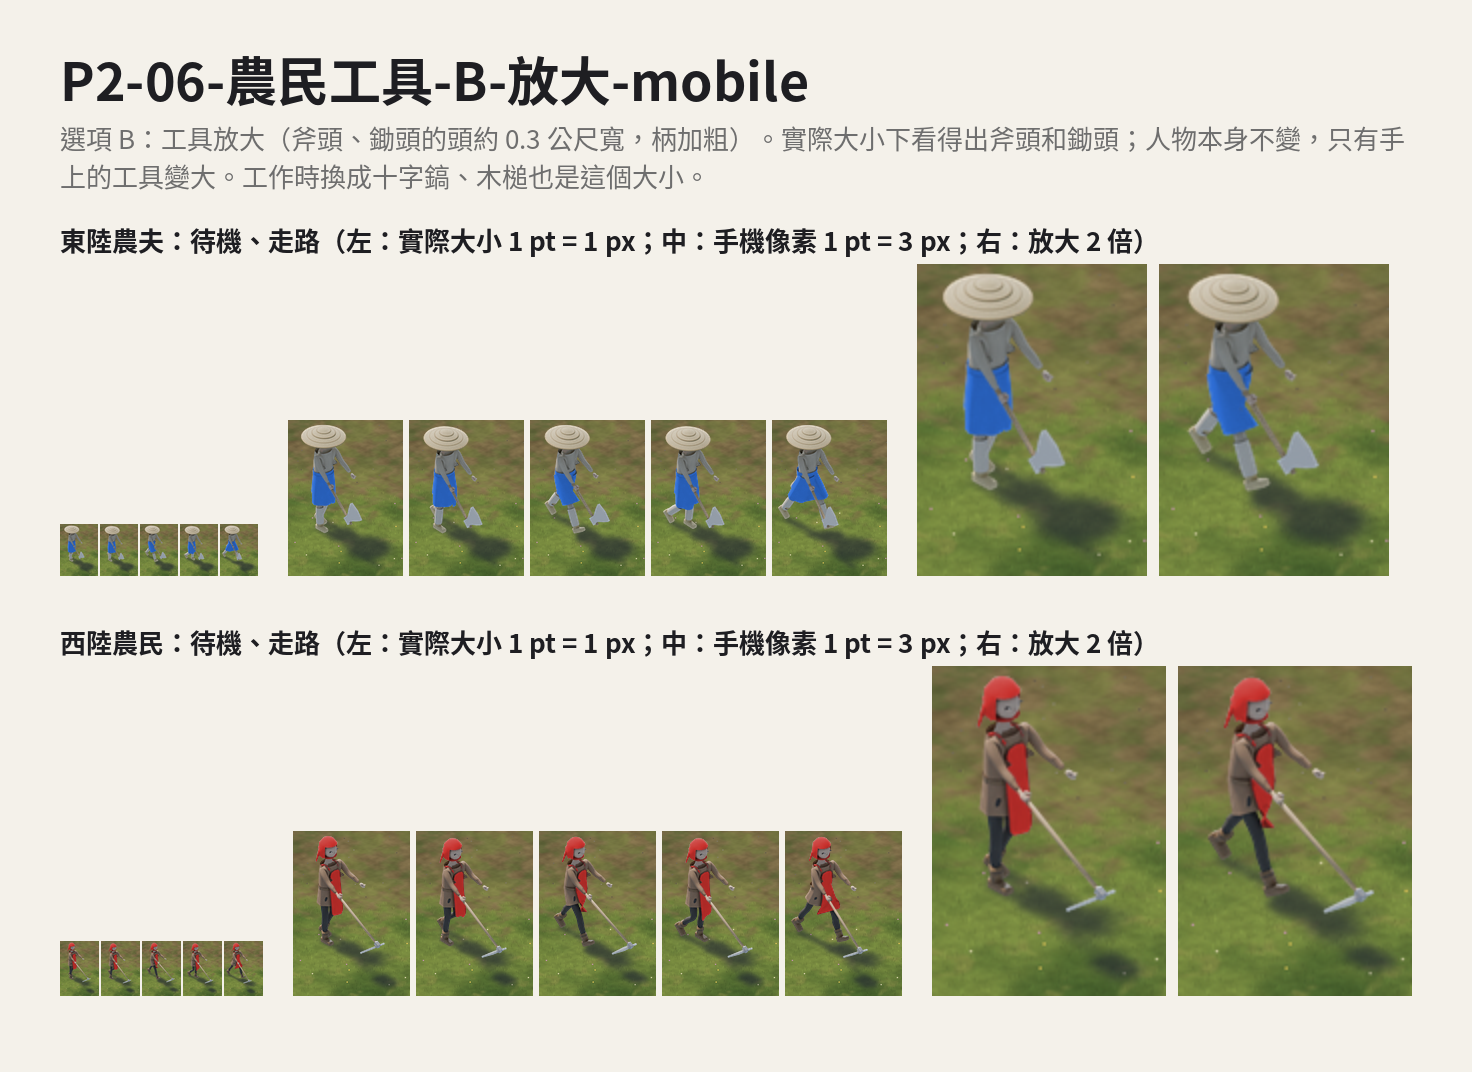
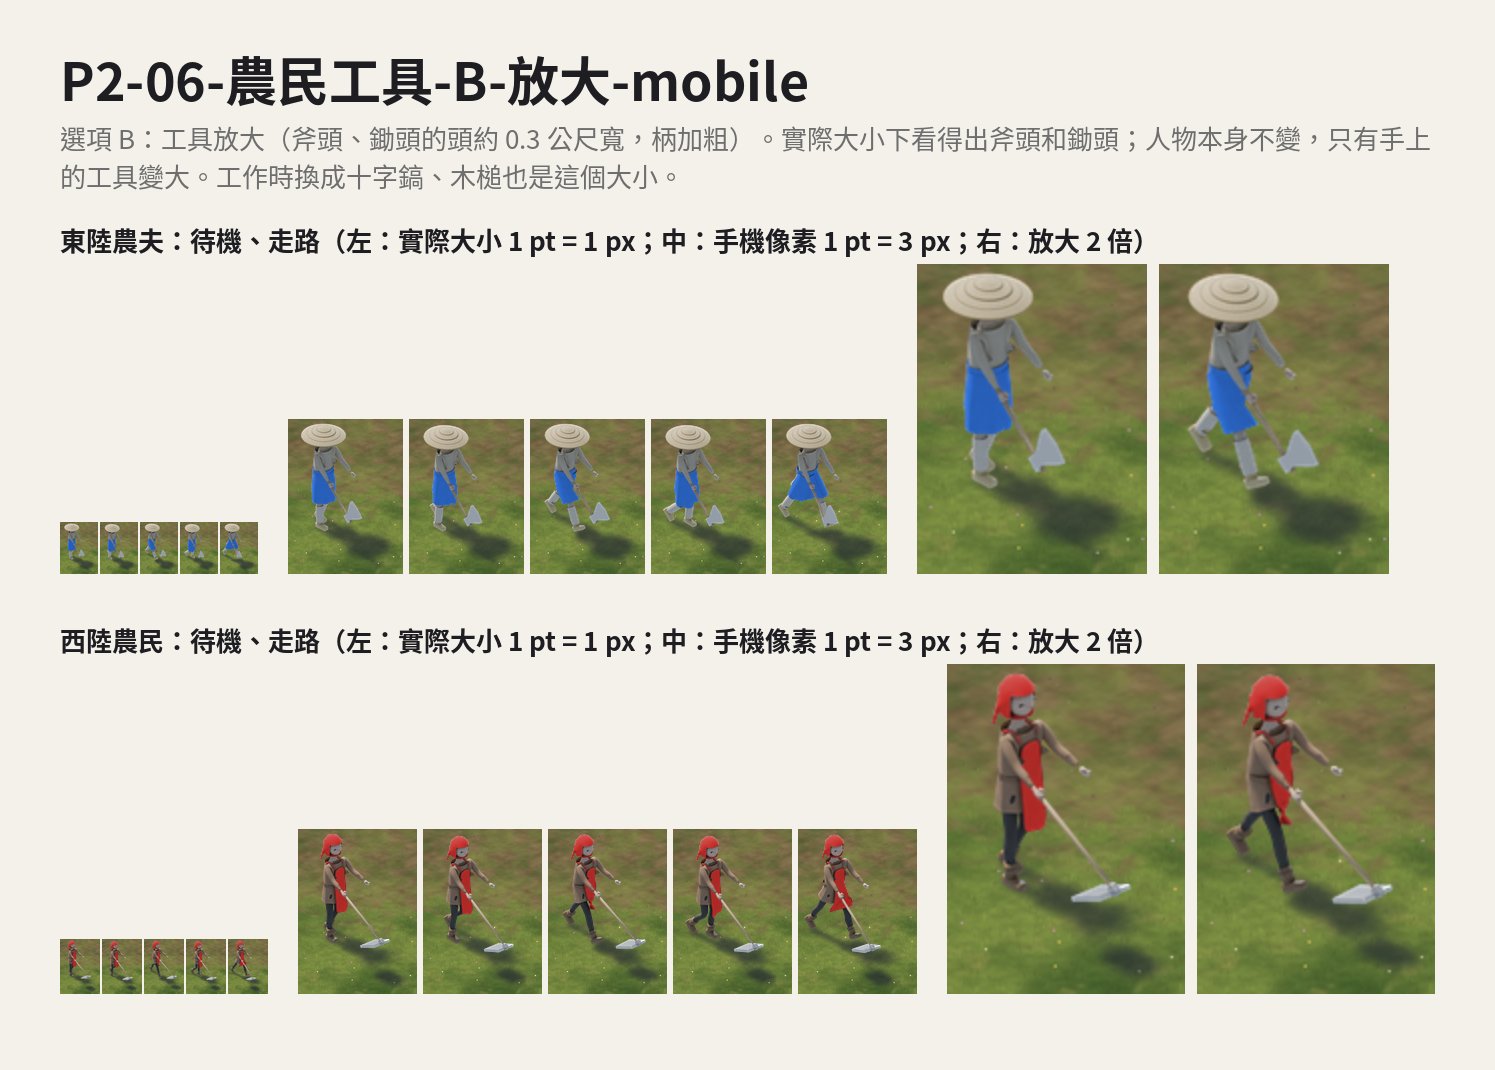
P2 核准稿：P2-03 倒下、P2-04 農民工作（初版與精修並排）、P2-06 農民工具 A 現況／B 放大、P2-99 總覽；README

diff --git a/design/production/README.md b/design/production/README.md
@@ -104,6 +104,47 @@ gh workflow run design-render --ref <分支> -f round=production \
 | — | `P1-99-總覽對照.png` | 每個動作三格（開始、關鍵、結束） |
 | — | `P1-99-動作對照.gif` | 全部動作放在一起（三分之二大小） |
 
+### P2：倒下與農民工作重做（等使用者核准）
+
+- 動作程式：`blender/anims.py`；共用工具在 `blender/motion.py`（關鍵格與快慢、腳踩穩的計算、雙手握柄的計算、零件散開）。
+- 已核准的晶彈、受擊、破盾、攻城器械走路沒有改。
+- **P2-04 農民工作**（每種 8 格，格數不變）：
+  - 工具放大重做：斧頭、十字鎬、鋤頭、木槌，頭約 0.3–0.4 公尺寬，柄加粗。
+  - 四種動作各有自己的路徑：
+    - 砍樹：側向揮到樹幹的高度，轉腰，重心從後腳移到前腳。
+    - 挖礦：十字鎬舉過頭，往腳前的地面鑿，深蹲。
+    - 耕田：鋤頭往前伸、砸下、往回拉。
+    - 蓋房子：左手扶著，右手木槌連敲兩下。
+  - 腳踩在原地不滑，雙手都握在柄上；蓄力慢、出手快、打到停一格。
+- **P2-03 倒下**（格數不變：倒下 10 格；法師倒下 12 格加死亡 4 格）：
+  - 法師：膝蓋先軟、身體垮下、往後斜躺，一腳屈膝；學院大師的杖第一格就脫手，自己倒在旁邊。
+  - 騎兵：馬前腳跪下不再伸直、側倒、腿收著；騎手往前摔出去趴在地上；長槍落在旁邊。
+  - 攻城器械：整台垮掉。立柱從腳散開倒下、拋竿砸在車架上、旗桿連旗倒地、兩個輪子脫落、車架歪一角、木板和石彈散落。
+  - 都是先慢後快、落地彈一下再停住。
+- **P2-06 農民工具放大**：工具變大後，待機、走路時手上的工具也跟著變大，會改到 R5 核准的農夫、農民輪廓（只有工具），所以單獨一項讓使用者表態。
+- **落地揚塵**（`common/effects.py`，暫定，要使用者核准）：
+  - 不畫進人物圖。遊戲在倒下動作的 `impact` 那一格，在單位腳下播一組共用的塵土（6 格、每秒 12 格），大的單位依 `impact_scale` 放大。
+  - 格式照 client 規格第 11 節：`effects.json` 加 `effects_0.png`；3 倍未壓縮不到 1 MB。
+  - `spec.IMPACT`：法師第 8 格；騎兵第 7 格、放大 1.6；攻城器械第 6 格、放大 2。
+  - `spec.WORK_HIT`：工作動作工具打到的那一格（砍樹 4、挖礦 4、耕田 3、蓋房子 2）。
+- 核准稿由 `common/review_p2.py --fetch <run_id>` 合成，初版（A）和精修（B）並排：
+
+| 檔名 | 內容 |
+|---|---|
+| `P2-03-倒下-B-精修-動作.gif` | 六個兵種的倒下，每格左 A 初版、右 B 精修（B 有落地揚塵） |
+| `P2-04-農民工作-B-精修-動作.gif` | 東陸農夫、西陸農民各四種工作，每格左 A、右 B |
+| `P2-06-農民工具-A-現況-mobile.png` | R5 核准的工具：待機與走路，實際大小、手機像素、放大 |
+| `P2-06-農民工具-B-放大-mobile.png` | 放大後的工具，同樣的排法 |
+| `P2-06-農民工具-B-放大-動作.gif` | 待機接走路，左 A 現況、右 B 放大 |
+| `P2-99-總覽對照.png` | 每項的關鍵格，含實際大小（1 pt = 1 px）的一列 |
+
+- 記憶體（從朝向 7 的修邊面積估計，完整量產、12 個兵種合計 314 MB／37 MB 之上）：
+  - 倒下：3 倍未壓縮約多 4 MB，2 倍 ASTC 約多 0.5 MB。主要是霹靂車垮開後佔的範圍變大、學院大師的杖倒在旁邊；騎兵反而變小。
+  - 農民工具放大：3 倍未壓縮約多 0.5 MB，2 倍 ASTC 約多 0.1 MB。新的工作動作比初版收得緊（不再把工具高舉過頭），抵掉了工具變大的部分。
+- 算圖：run 36818187873（8 個兵種），農夫與農民在鋤片修改後重算 run 36819082652。P1 的算圖留在本機 `build/prod/review1-<兵種>` 當對照的 A。
+
+### P1 初版的修改紀錄
+
 - 看過第一次算圖後改過四件事：
   1. 投石機倒下時，拋竿原本往上甩，看起來像在發射。改成往後垂、歪向一邊。
   2. 防護罩碎片和晶彈閃光原本用邊緣發光的材質，正面看幾乎透明。改成實心發光，碎片加大、加多。

diff --git a/design/production/worklog.md b/design/production/worklog.md
@@ -12,3 +12,4 @@
 - 2026-10-01：法師重算 run 36751588165 兩個都 0 錯誤 0 警告（特效不再碰畫框）；12 兵種合計 3 倍未壓縮 314 MB、2 倍 ASTC 37 MB（client 估 365／40）；新動作送 CI run 36763436805（review 8 個目標）；review_gif.py 修正後在農夫替代影格上測過
 - 2026-10-01：新動作第一版核准稿 out/P1-01..05、P1-99（run 36763436805／36764691711／36766724809）；看過後修投石機拋竿、碎片與閃光材質、學院大師握杖站姿；交給 ceo
 - 2026-10-01：使用者看 P1 的裁示（原話「p1-03 p1-04看起來不夠精緻」）：P1-01、02、05 核准；P1-03、04 未核准，P2 重做（另開 PR）。ceo 同意防護罩拆成單獨一張圖（等 client 規格）、落地揚塵由遊戲另外畫、工具放大另編 P2-06 給使用者表態
+- 2026-10-01：P2 核准稿完成（倒下、農民工作、農民工具 A／B、總覽）；run 36818187873、36819082652；記憶體估計倒下 +4 MB、工具 +0.5 MB（3 倍未壓縮）
